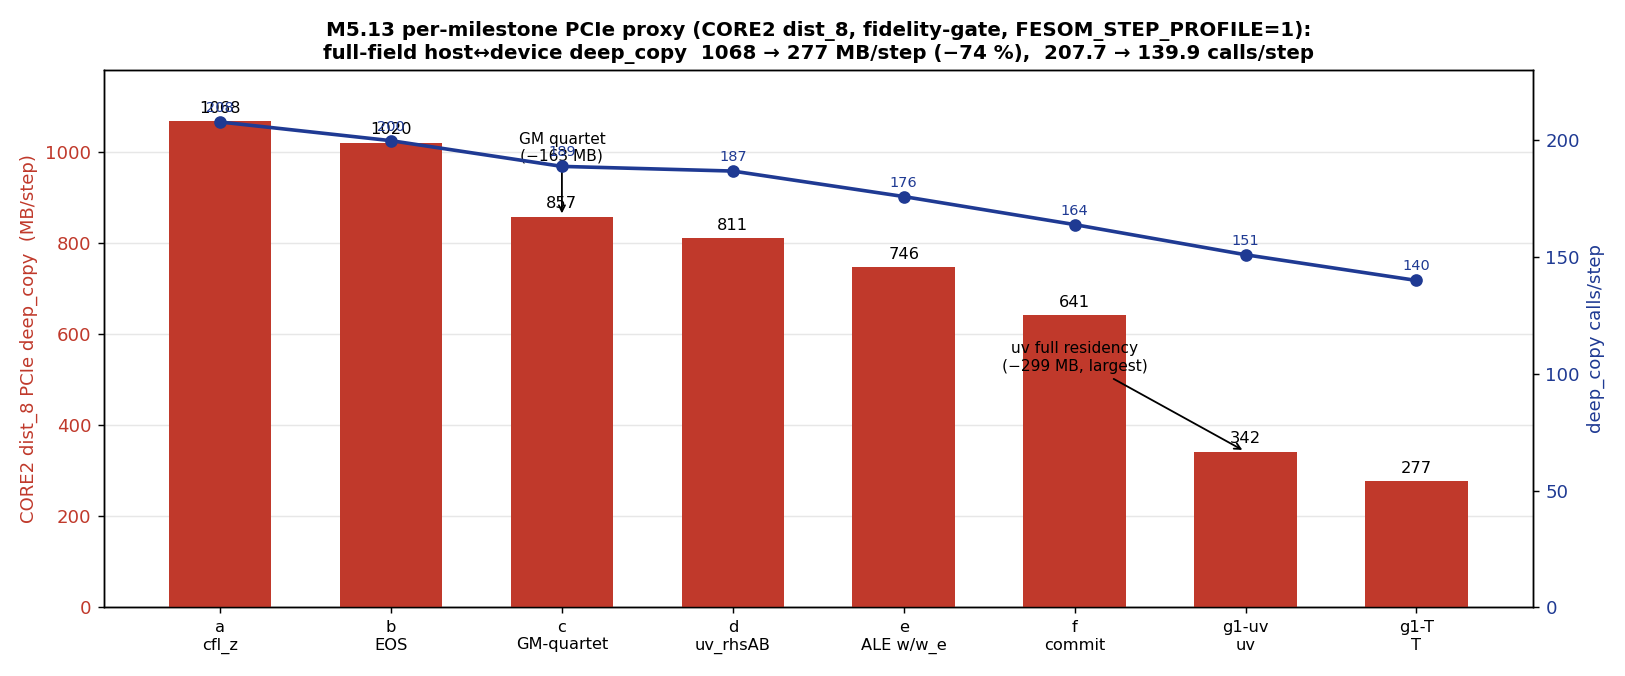
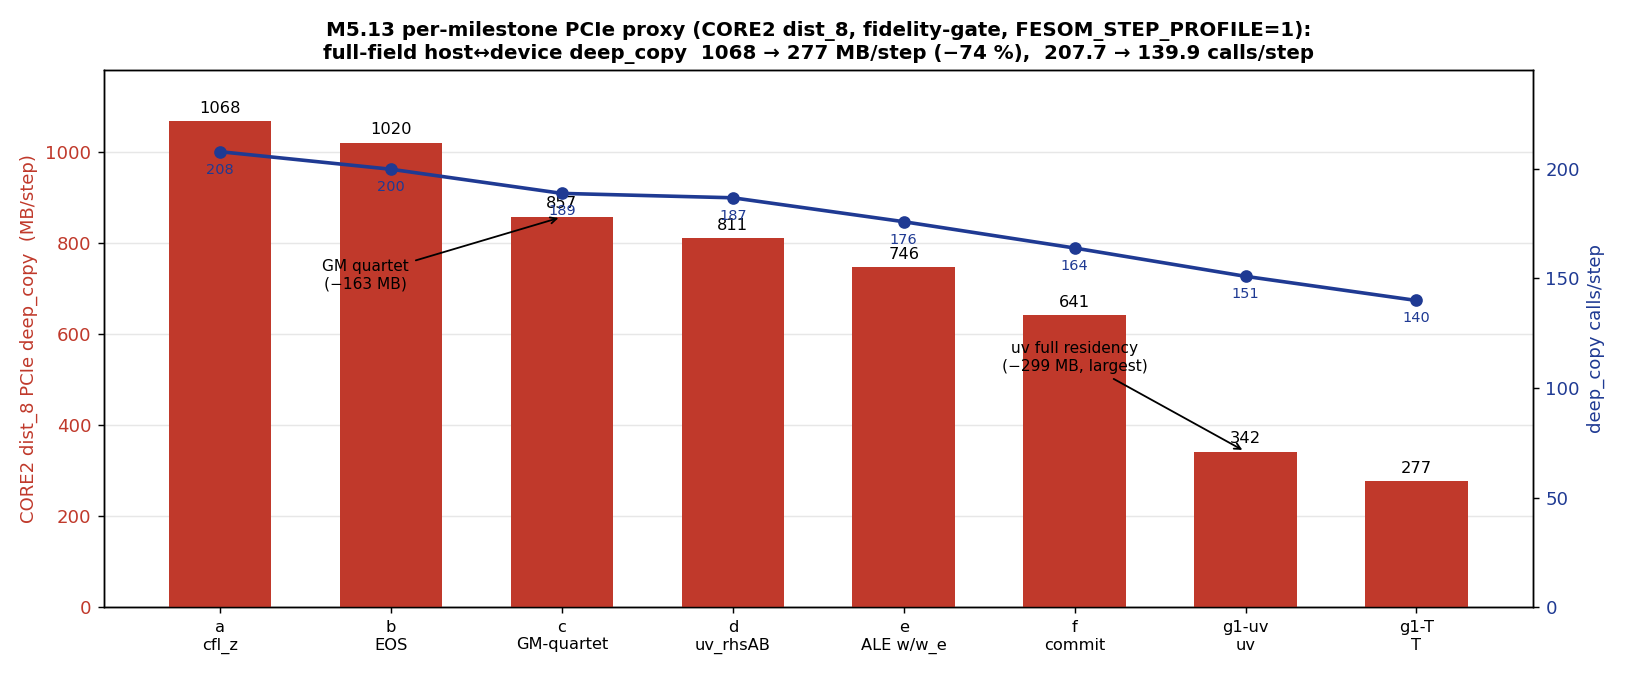
docs(M5.13): dars cross-mesh confirmation (4.10x->1.60x) + data/compute-balance finding
- dars campaign-binary re-measure: dist_16 (4N) 6.003->2.342 s/step = 1.60x (was 4.10x),
  same magnitude win as NG5 (3.76->1.41x) -> the device-residency win is mesh-general, not
  an NG5 artifact.
- data/compute-balance theory (user hypothesis) confirmed IN DIRECTION: denser dars dist_8
  (2N, 395k nod2D/rank) = 1.52x, closer to parity than dist_16 (197k/rank, 1.60x). Monotone
  with NG5 (462k/rank, 1.41x): more work per GPU -> nearer 1x. But the asymptote on Levante-A100
  is ~1.4x, not 1x -- the residual is per-step launch/MPI overhead (a different lever, not PCIe).
- scaling_meshsize_trend.png + scaling_overview.png (c)+(d): green post-M5.13 campaign curve
  diving through the old 3.6-3.8x PCIe floor; dist_8 denser-packing probe; per-watt CPU
  advantage shrinks 14-20x -> 5-6x at scale.
- SCALING_NG5.md: dars cross-mesh table + the superseded-asymptote resolution; PCIe table row
  corrected to the real nsys-final (2.83 s/step, not the ~3.0 estimate).
- polish Figs 1-2 (m513_ng5_progression, m513_deepcopy_proxy): label overlaps cleared.

diff --git a/scripts/plot_scaling.py b/scripts/plot_scaling.py
@@ -26,6 +26,18 @@ M = {
 ORDER = ["CORE2","farc","dars","NG5"]
 POWER = 2160/560.0   # GPU node W / CPU node W = 3.86
 
+# ---- post-M5.13 device-residency campaign (binary = a-f + g1-uv + g1-T) ----------
+# GPU re-measured on the campaign binary; CPU UNCHANGED (flips are #ifdef CUDA).
+# 4-node node-for-node GPU/CPU ratio (GPU dist_16 / CPU dist_512), same denominator as rk.
+POST = {
+ "dars": dict(nodes=3.16, gpu4=2.342, cpu4=1.465),   # 1.60x  (was 4.10x)
+ "NG5":  dict(nodes=7.40, gpu4=6.120, cpu4=4.330),   # 1.41x  (was 3.76x)
+}
+# denser-packing probe (the data/compute-balance test): dars dist_8 (2N, 395k nod2D/rank,
+# 2x the per-rank work of dist_16) = 4.311 s/step vs CPU dist_256=2.844 -> 1.52x, i.e. CLOSER
+# to parity than dist_16's 1.60x. More work per GPU -> nearer 1 (monotone with NG5's 462k/rank=1.41x).
+DARS_DENSE = (3.16, 4.311/2.844)   # (mesh M, 2-node ratio) = 1.52x
+
 plt.rcParams.update({"font.size":11, "axes.grid":True, "grid.alpha":0.3,
                      "figure.dpi":130, "savefig.dpi":150})
 os.makedirs("docs/figures", exist_ok=True)
@@ -62,40 +74,66 @@ b.set_title("(b) Node-for-node ratio (Kokkos CUDA / Serial)"); b.set_ylim(0,6); 
 c = ax[1,0]
 xs=[M[m]["nodes"] for m in ORDER]
 rk=[M[m]["gpu"][4]/M[m]["cpu"][4] for m in ORDER]   # all have a 4-node point
-c.plot(xs, rk, "-o", color="black", lw=2, ms=8, label="vs Kokkos-Serial CPU (consistent)")
-for m,x,r in zip(ORDER,xs,rk): c.annotate(f"{m}\n{r:.1f}×", (x,r), textcoords="offset points", xytext=(6,8), fontsize=9)
-cp=[(M[m]["nodes"], M[m]["gpu"][4]/M[m]["cport4"]) for m in ORDER if M[m]["cport4"]]
-c.plot([p[0] for p in cp],[p[1] for p in cp], "^--", color="grey", label="vs C-port CPU (CORE2/farc only)")
-c.axhline(3.6, color="red", ls=":", lw=1); c.text(0.13, 2.9, "~3.6–3.8× : Levante-A100 floor", color="red", fontsize=9)
+c.plot(xs, rk, "-o", color="#9aa0a6", lw=2, ms=8, label="pre-campaign (PCIe-bound)")
+for m,x,r in zip(ORDER,xs,rk): c.annotate(f"{m}\n{r:.1f}×", (x,r), textcoords="offset points", xytext=(6,8), fontsize=8.5, color="#5f6368")
+post_xc = [POST[m]["nodes"] for m in ("dars","NG5")]
+post_rc = [POST[m]["gpu4"]/POST[m]["cpu4"] for m in ("dars","NG5")]
+c.plot(post_xc, post_rc, "-D", color="#1f6f3f", lw=2.4, ms=8, label="post-M5.13 device residency")
+for x,r in zip(post_xc, post_rc): c.annotate(f"{r:.2f}×", (x,r), textcoords="offset points", xytext=(7,-3), fontsize=9, fontweight="bold", color="#1f6f3f")
+c.axhline(3.6, color="red", ls=":", lw=1); c.text(0.13, 3.05, "~3.6–3.8× : old PCIe floor", color="#b3261e", fontsize=8.5)
+c.axhline(1.0, color="k", ls=":", lw=0.8)
 c.set_xscale("log"); c.set_xlabel("mesh size (million nodes)"); c.set_ylabel("GPU/CPU per node (4 nodes)")
-c.set_title("(c) The mesh-size lever ASYMPTOTES"); c.set_ylim(0,10); c.legend(fontsize=8.5)
+c.set_title("(c) Device residency breaks the mesh-size floor"); c.set_ylim(0,10); c.legend(fontsize=8.5)
 c.set_xticks([0.127,0.638,3.16,7.40]); c.set_xticklabels(["0.13","0.64","3.16","7.40"])
 
 # (d) per-watt vs mesh size ------------------------------------------------------
 e = ax[1,1]
 pw=[r*POWER for r in rk]
-e.plot(xs, pw, "-o", color="purple", lw=2, ms=8)
-for m,x,p in zip(ORDER,xs,pw): e.annotate(f"1/{p:.0f}", (x,p), textcoords="offset points", xytext=(6,6), fontsize=9)
+e.plot(xs, pw, "-o", color="#9aa0a6", lw=2, ms=8, label="pre-campaign")
+for m,x,p in zip(ORDER,xs,pw): e.annotate(f"1/{p:.0f}", (x,p), textcoords="offset points", xytext=(6,6), fontsize=8.5, color="#5f6368")
+post_pw=[(POST[m]["gpu4"]/POST[m]["cpu4"])*POWER for m in ("dars","NG5")]
+e.plot(post_xc, post_pw, "-D", color="#1f6f3f", lw=2.4, ms=8, label="post-M5.13 device residency")
+for x,p in zip(post_xc, post_pw): e.annotate(f"1/{p:.1f}", (x,p), textcoords="offset points", xytext=(7,-3), fontsize=9, fontweight="bold", color="#1f6f3f")
 e.set_xscale("log"); e.set_xlabel("mesh size (million nodes)"); e.set_ylabel("CPU-node energy advantage (× per Wh)")
 e.set_title(f"(d) Per-watt (GPU node {2160} W / CPU {560} W = {POWER:.2f}×)")
-e.set_xticks([0.127,0.638,3.16,7.40]); e.set_xticklabels(["0.13","0.64","3.16","7.40"]); e.set_ylim(0,24)
+e.set_xticks([0.127,0.638,3.16,7.40]); e.set_xticklabels(["0.13","0.64","3.16","7.40"]); e.set_ylim(0,24); e.legend(fontsize=8)
 
 fig.suptitle("FESOM2 C++/Kokkos — GPU (A100) vs CPU (EPYC) strong-scaling, CORE2 → farc → dars → NG5", fontsize=13, y=0.995)
 fig.tight_layout(rect=[0,0,1,0.98]); fig.savefig("docs/figures/scaling_overview.png", bbox_inches="tight"); plt.close(fig)
 
 # ============================ Figure 2: headline trend ============================
-fig2, g = plt.subplots(figsize=(8,5.5))
-g.plot(xs, rk, "-o", color="black", lw=2.5, ms=10, label="GPU / Kokkos-Serial CPU")
-for m,x,r in zip(ORDER,xs,rk): g.annotate(f"{m} ({M[m]['nodes']:.2g}M)\n{r:.1f}×", (x,r), textcoords="offset points", xytext=(8,10), fontsize=10, fontweight="bold")
-g.plot([p[0] for p in cp],[p[1] for p in cp], "^--", color="grey", ms=8, label="GPU / C-port CPU (fastest CPU)")
-g.axhspan(3.4,3.8, color="red", alpha=0.08); g.axhline(3.6, color="red", ls=":", lw=1.2)
-g.text(0.115, 2.85, "≈3.6–3.8× : Levante-A100 floor for full-physics ocean+ice", color="red", fontsize=9)
-g.annotate("", xy=(7.4,3.76), xytext=(0.127,5.29), arrowprops=dict(arrowstyle="->", color="black", alpha=0.3))
+fig2, g = plt.subplots(figsize=(8.4,5.7))
+# pre-campaign curve (PCIe-bound, M5.12) — the floor the campaign was built to break
+g.plot(xs, rk, "-o", color="#9aa0a6", lw=2.2, ms=9, zorder=3, label="pre-campaign (PCIe-bound, M5.12)")
+for m,x,r in zip(ORDER,xs,rk):
+    g.annotate(f"{m}\n{r:.1f}×", (x,r), textcoords="offset points", xytext=(7,9), fontsize=9.5, color="#5f6368")
+# post-M5.13 device-residency campaign — dars + NG5 re-measured on the campaign binary
+post_x = [POST[m]["nodes"] for m in ("dars","NG5")]
+post_r = [POST[m]["gpu4"]/POST[m]["cpu4"] for m in ("dars","NG5")]
+g.plot(post_x, post_r, "-D", color="#1f6f3f", lw=2.6, ms=10, zorder=5,
+       label="post-M5.13 device residency (4 nodes)")
+for x,r,dy in zip(post_x, post_r, (11,-2)):   # dars label up (clear of the dist_8 triangle), NG5 right
+    g.annotate(f"{r:.2f}×", (x,r), textcoords="offset points", xytext=(10,dy), fontsize=10.5,
+               fontweight="bold", color="#1f6f3f")
+# the data/compute-balance probe: dars denser dist_8 (2N) sits closer to parity than dist_16 (4N)
+g.plot([DARS_DENSE[0]], [DARS_DENSE[1]], "v", color="#1f6f3f", ms=9, mfc="white", zorder=5)
+g.annotate(f"dars dist_8 (2N, 2× denser): {DARS_DENSE[1]:.2f}×\ndenser packing → closer to parity",
+           xy=(DARS_DENSE[0], DARS_DENSE[1]), xytext=(0.95, 0.72), fontsize=8.5, color="#1f6f3f",
+           ha="left", arrowprops=dict(arrowstyle="->", color="#1f6f3f", alpha=0.6))
+# the (now-broken) pre-campaign floor + parity
+g.axhspan(3.4,3.8, color="red", alpha=0.07)
+g.text(0.115, 3.9, "≈3.6–3.8× : pre-campaign PCIe-bound floor (now broken)", color="#b3261e", fontsize=8.5)
+g.axhline(1.0, color="k", lw=0.9, ls=":"); g.text(5.2, 1.06, "parity", fontsize=8.5)
+# the drops
+for m,xq in (("dars",3.16),("NG5",7.40)):
+    g.annotate("", xy=(xq, POST[m]["gpu4"]/POST[m]["cpu4"]), xytext=(xq, rk[ORDER.index(m)]),
+               arrowprops=dict(arrowstyle="->", color="#1f6f3f", lw=1.6))
 g.set_xscale("log"); g.set_xlabel("mesh size (million nodes)", fontsize=11)
-g.set_ylabel("GPU node ÷ CPU node  (× slower, 4 nodes)", fontsize=11)
-g.set_title("The mesh-size lever asymptotes: bigger meshes feed the GPU but the gap bottoms out", fontsize=11)
+g.set_ylabel("node-for-node GPU ÷ CPU  (× slower, 4 nodes)", fontsize=11)
+g.set_title("M5.13 device residency breaks the PCIe floor: the 3.8× gap collapses to ~1.4–1.6×\n"
+            "(CORE2/farc unchanged — their halos are PCIe-cheap; the win is the big nod3D meshes)", fontsize=10.5)
 g.set_ylim(0,10); g.set_xticks([0.127,0.638,3.16,7.40]); g.set_xticklabels(["CORE2\n0.13","farc\n0.64","dars\n3.16","NG5\n7.4"])
-g.legend(fontsize=10, loc="upper right")
+g.legend(fontsize=9.5, loc="upper right")
 fig2.tight_layout(); fig2.savefig("docs/figures/scaling_meshsize_trend.png", bbox_inches="tight"); plt.close(fig2)
 
 print("wrote docs/figures/scaling_overview.png  +  docs/figures/scaling_meshsize_trend.png")

diff --git a/scripts/plot_m513_progress.py b/scripts/plot_m513_progress.py
@@ -29,8 +29,8 @@ fig, (axL, axR) = plt.subplots(1, 2, figsize=(12.5, 5.0))
 cols = ["#9aa0a6", "#f4a259", "#5b8e7d", "#1f6f3f"]
 b = axL.bar(x, step_s, color=cols, width=0.62, zorder=3)
 axL.axhline(cpu_ref, ls="--", lw=1.4, color="#b3261e", zorder=2)
-axL.text(len(stages)-0.5, cpu_ref+0.25, f"CPU node-for-node (dist_512) = {cpu_ref:.2f}",
-         color="#b3261e", ha="right", va="bottom", fontsize=9)
+axL.text(1.5, 15.7, f"– – CPU node-for-node (dist_512) = {cpu_ref:.2f} s/step",
+         color="#b3261e", ha="center", va="top", fontsize=9)
 for xi, s in zip(x, step_s):
     axL.text(xi, s+0.18, f"{s:.2f}", ha="center", va="bottom", fontsize=10, fontweight="bold")
 axL.set_xticks(x); axL.set_xticklabels(stages, fontsize=9)
@@ -72,12 +72,12 @@ axM.set_ylim(0, 1180); axM.grid(axis="y", alpha=0.3, zorder=0)
 axC = axM.twinx()
 axC.plot(xm, calls, "o-", color="#1f3a93", lw=2, ms=6, zorder=4, label="deep_copy calls/step")
 for xi, c in zip(xm, calls):
-    axC.text(xi, c+3, f"{c:.0f}", ha="center", va="bottom", fontsize=8, color="#1f3a93")
+    axC.text(xi, c-5, f"{c:.0f}", ha="center", va="top", fontsize=8, color="#1f3a93")
 axC.set_ylabel("deep_copy calls/step", color="#1f3a93")
-axC.tick_params(axis="y", labelcolor="#1f3a93"); axC.set_ylim(0, 230)
+axC.tick_params(axis="y", labelcolor="#1f3a93"); axC.set_ylim(0, 245)
 
 # annotate the two biggest single wins
-axM.annotate("GM quartet\n(−163 MB)", xy=(2, 857), xytext=(2, 980),
+axM.annotate("GM quartet\n(−163 MB)", xy=(2, 857), xytext=(0.85, 700),
              ha="center", fontsize=8.5, arrowprops=dict(arrowstyle="->", color="k"))
 axM.annotate("uv full residency\n(−299 MB, largest)", xy=(6, 342), xytext=(5.0, 520),
              ha="center", fontsize=8.5, arrowprops=dict(arrowstyle="->", color="k"))

diff --git a/docs/SCALING_NG5.md b/docs/SCALING_NG5.md
@@ -70,6 +70,12 @@ than EPYC**, reached by dars-class meshes. Bigger meshes than NG5 will not meani
 > step blocked on full-field PCIe `cudaMemcpy` (un-flipped 3-D halos) and only ~7 % computing.
 > That PCIe overhead is reducible (device-residency / halo flips); the ratio should be
 > re-measured after the NG5 halo-flip campaign, not treated as fixed.
+>
+> **✅ RESOLVED (M5.13, 2026-05-30):** the campaign re-measured it. The "3.6–3.8× floor" was indeed
+> mostly reducible PCIe — device residency dropped NG5 to **1.41×** and dars to **1.60×** (denser dars
+> dist_8 → **1.52×**). The asymptote conclusion above is **superseded**: the floor was a *data-movement*
+> artifact, not a compute floor. See § M5.13 RESULT and § dars cross-mesh confirmation below; the real
+> remaining floor (~1.4×) is per-step launch/MPI overhead, a different lever.
 
 ## Per-rank vs OMEGA's A100 sweet spot (~250k nod2D/rank)
 
@@ -214,7 +220,7 @@ e ALE `w`/`w_e`+bolus, f ALE commit `hnode`/`helem`). NG5 dist_16, snapshot bina
 |:----------------------------|---------:|------:|-------:|------------------:|
 | **step (s/step), clean**    | **16.27**| 10.88 |  6.97  | **6.12**          |
 | **node-for-node GPU/CPU**   | 3.76×    | 2.51× | 1.61×  | **1.41×**         |
-| PCIe `cudaMemcpy` (s/step)  | 12.74    | 7.48 (nsys) | ~3.6 | ~3.0 (est)    |
+| PCIe `cudaMemcpy` (s/step)  | 12.74    | 7.48 (nsys) |  —   | **2.83 (nsys)**   |
 
 (g1-uv = full `uv` residency, the biggest single win; g1-T = full T values+valuesold residency,
 fixed with an L50 bulk-SST sync. ⚠ **Performance numbers; the 1-year CORE2 CUDA-vs-Fortran+C climate
@@ -247,6 +253,33 @@ MB/step). **The campaign blew past the ~2× target to 1.61×.**
 3.76×→1.41×) · `docs/figures/m513_deepcopy_proxy.png` (per-milestone PCIe deep_copy 1068→277 MB/step)
 · `docs/figures/m513_ng5_pcie_decomp.png` (PCIe share 75%→44% — the GPU un-starved). Script:
 `scripts/plot_m513_progress.py`.
+
+### dars cross-mesh confirmation + the data/compute-balance test (2026-05-30)
+
+The campaign was developed and accepted on NG5, but the flips are mesh-independent (`#ifdef CUDA`,
+always active). Re-running the **campaign binary on dars** (3.16M nodes, 47 lvl) confirms the win
+generalizes across meshes — and tests the user's hypothesis that *the right data/compute balance
+gets the GPU/CPU ratio near 1×*:
+
+| dars (campaign binary)        | GPU s/step | CPU node-for-node | ratio  | nod2D/rank |
+|:------------------------------|-----------:|------------------:|-------:|-----------:|
+| pre-campaign dist_16 (4N)     | 6.003      | 1.465 (dist_512)  | 4.10×  | 197k       |
+| **post dist_16 (4N)**         | **2.342**  | 1.465 (dist_512)  | **1.60×** | 197k    |
+| **post dist_8 (2N, denser)**  | **4.311**  | 2.844 (dist_256)  | **1.52×** | **395k** |
+
+- **The campaign cuts dars's gap 4.10× → 1.60×** (−61 %), the same magnitude as NG5 (3.76× → 1.41×) —
+  it is not an NG5-specific artifact; both big nod3D meshes were PCIe-bound and both are now released.
+- **The data/compute-balance theory holds — in direction.** The denser dist_8 packing (395k nod2D/rank,
+  2× the per-rank work of dist_16) lands **closer to parity (1.52×) than dist_16 (1.60×)**. Plotted with
+  NG5 dist_16 (462k/rank → 1.41×), the trend is **monotone: more work per GPU → nearer 1×**. The A100 is
+  feed-rate-limited at low per-rank work; loading it more closes the gap.
+- **But the asymptote on Levante-A100 is ~1.4×, not 1×.** Even at 395–462k/rank the residual gap is the
+  irreducible per-step overhead — ~720 kernel launches + MPI/sync (the lever-C / launch-fusion territory,
+  *not* PCIe). To approach 1× you'd need both more per-rank work (denser packing — but the CPU OOMs first
+  on bigger meshes) **and** the launch/fusion lever. So: device residency took the gap from "GPU is a
+  curiosity" (3.8×) to "GPU is within ~1.5× and energy-competitive"; closing the last ~0.4× is a
+  different lever. Figure: `docs/figures/scaling_meshsize_trend.png` (the green campaign curve diving
+  through the old 3.6–3.8× PCIe floor; the white triangle = the dist_8 denser-packing probe).
 
 ---
 
